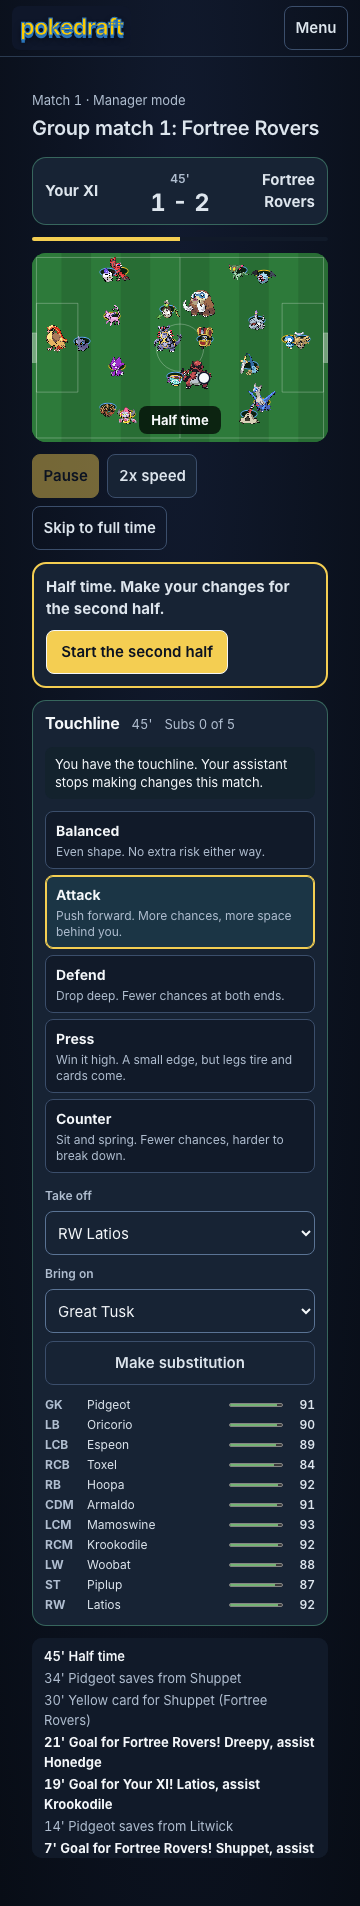
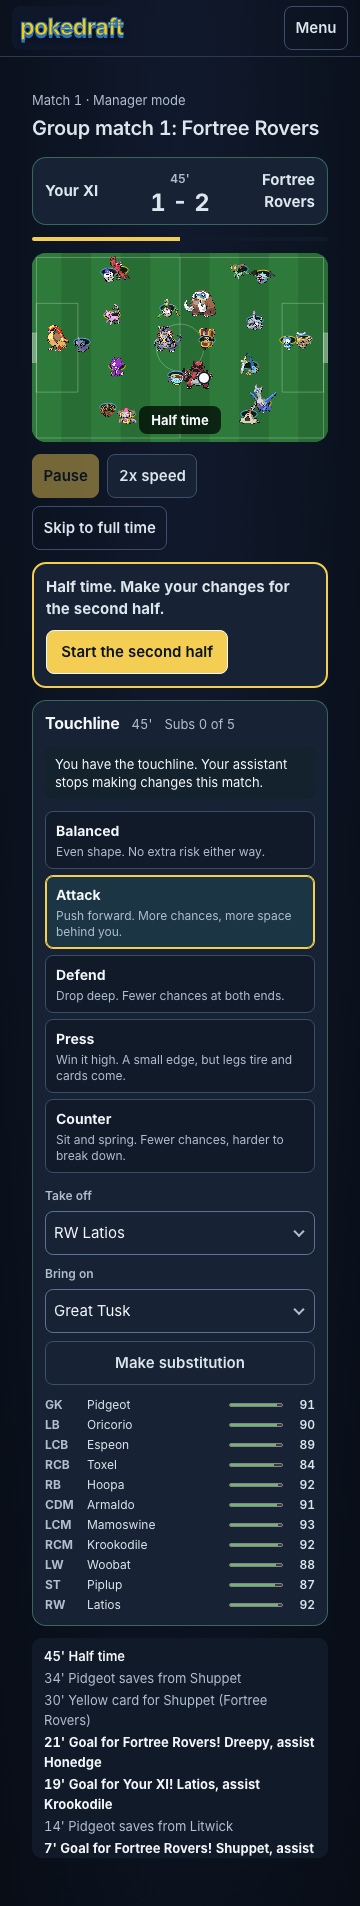
docs(manager-mode): retake browser proof with 44px selects, note the guard removal
Claude-Session: https://claude.ai/code/session_01MfMEM47Wbre3Qf5pnXttWz

diff --git a/docs/decisions/manager-mode-broadcast.md b/docs/decisions/manager-mode-broadcast.md
@@ -80,6 +80,10 @@ first page load nor the quick view carries the artifact.
 - `BoardEntry.coached` is derived in `toBoardEntry` from the stored token (pd6 prefix, decodes, and
   at least one manager action). There is no column and no migration. The client schema requires
   the field, so a board reply without it is shown as an error, not read as uncoached.
+- Engine 6 shipped a temporary guard that refused coached tokens at submit, so no coached run could
+  rank unmarked. This dispatch ships the marker, so the guard is gone. A handler test pins that a
+  coached token gets 201 with `coached: true` and an uncoached one `coached: false`, and its RED
+  run (422 from the guard) was committed first.
 - Rows carry a "Coached" chip. The All / Uncoached / Coached filter is client side: it narrows the
   50 rows the server already ranked together and keeps their board ranks. It is not a separate top
   50 of coached or uncoached runs. If the group wants that, it is a read-side query change.
